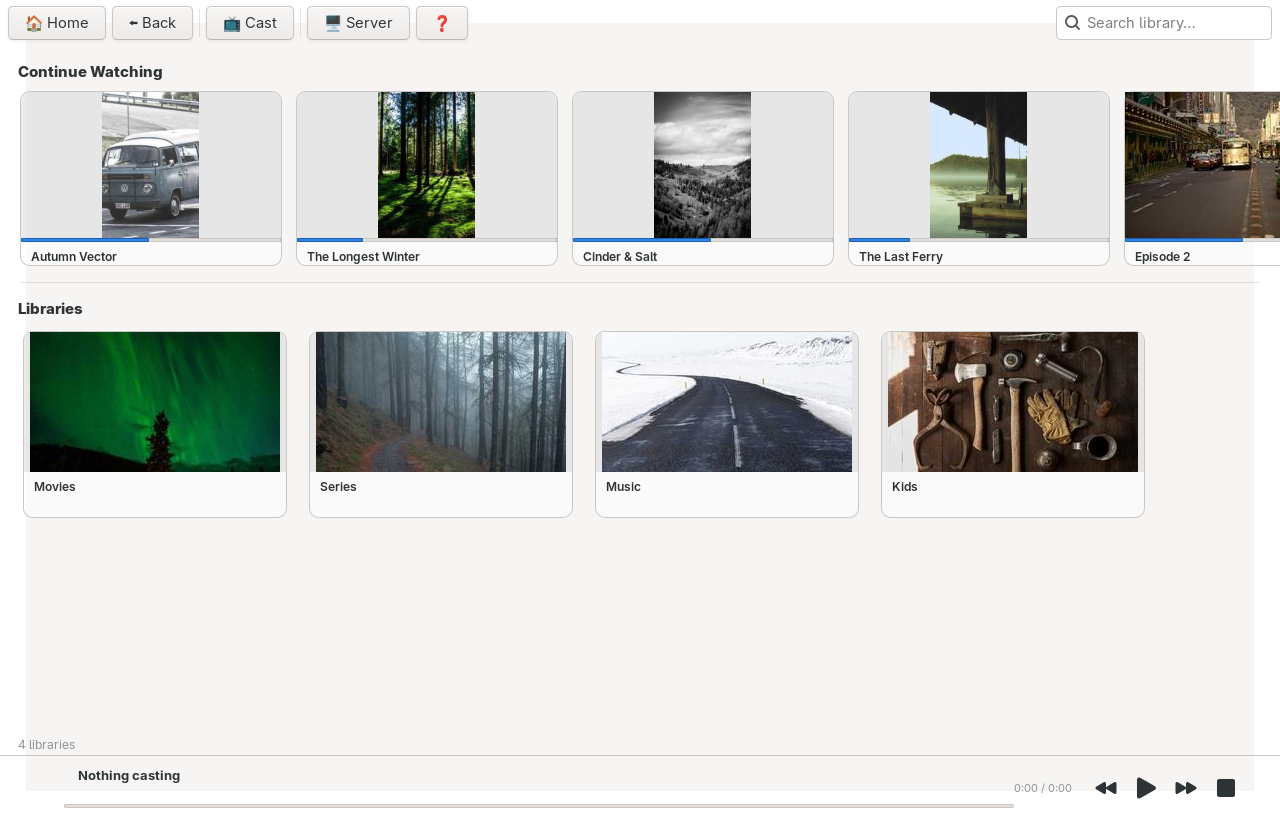
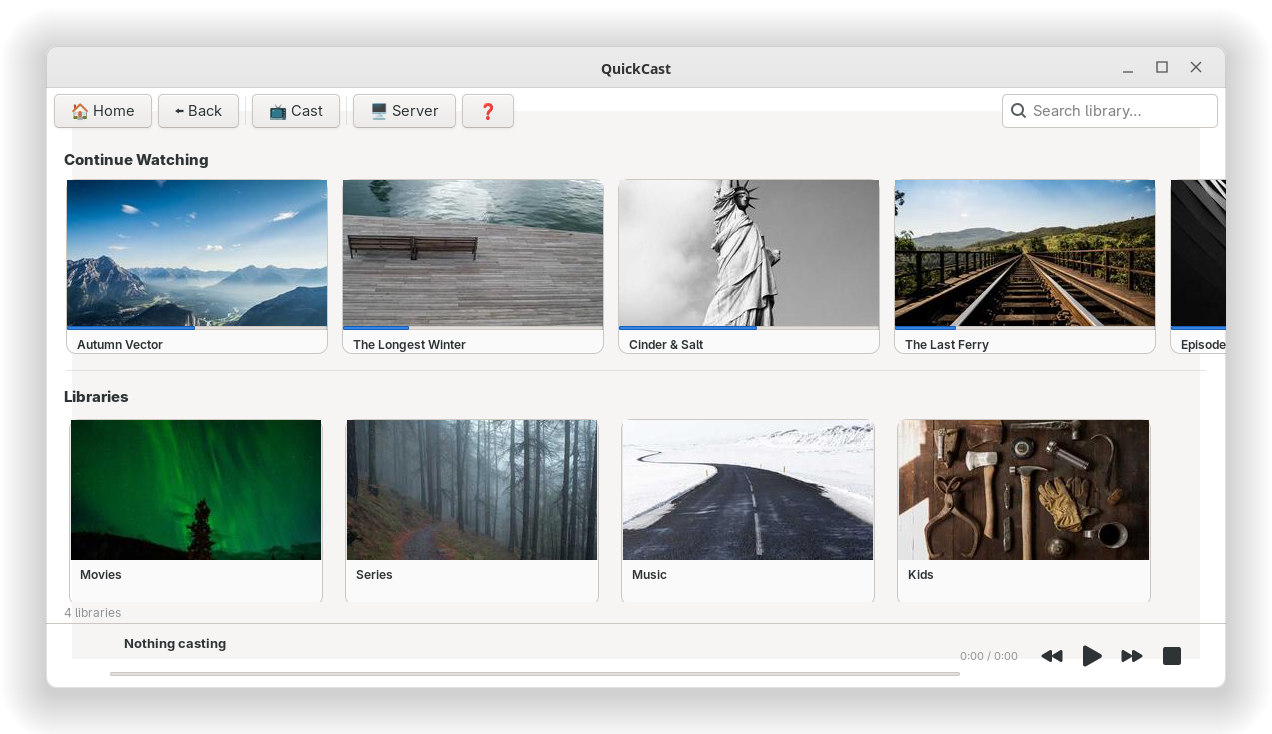
Continue Watching uses landscape stills; framed README hero
- Fix Continue Watching cards loading portrait posters into 16:9 frames
  (visible letterboxing): they now load the wide backdrop image, with a
  primary-poster fallback.
- tools/hero.py renders the README screenshot wrapped in a clean Adwaita
  window frame (titlebar, window controls, drop shadow), matching the
  quicksnip/quickcell shots; regenerate screenshot.png with it.
- README: demote mock/screenshots tooling into a single Development
  section (they are dev tools, not user features).

diff --git a/tools/hero.py b/tools/hero.py
@@ -1,0 +1,121 @@
+#!/usr/bin/env python3
+"""Render the README hero screenshot: the app (in --mock mode) wrapped in a
+clean Adwaita-style window frame (titlebar + window controls + drop shadow),
+matching the quicksnip/quickcell screenshots.
+
+Usage: python3 tools/hero.py [out.png] [WIDTH] [HEIGHT]
+"""
+import math
+import os
+import sys
+
+sys.path.insert(0, os.path.join(os.path.dirname(os.path.abspath(__file__)), ".."))
+
+import cairo  # noqa: E402
+import gi  # noqa: E402
+
+gi.require_version("Gtk", "3.0")
+gi.require_version("Gdk", "3.0")
+from gi.repository import Gdk, GLib, Gtk  # noqa: E402
+
+import quickcast  # noqa: E402
+
+OUT = sys.argv[1] if len(sys.argv) > 1 else "screenshot.png"
+W = int(sys.argv[2]) if len(sys.argv) > 2 else 1180
+H = int(sys.argv[3]) if len(sys.argv) > 3 else 620
+
+app = quickcast.QuickCast(mock=True)
+child = app.window.get_child()
+app.window.remove(child)
+off = Gtk.OffscreenWindow()
+off.add(child)
+off.set_size_request(W, H)
+off.show_all()
+
+MARGIN, TB, RADIUS = 46, 42, 11
+
+
+def _round_rect(cr, x, y, w, h, r):
+    cr.new_sub_path()
+    cr.arc(x + w - r, y + r, r, -math.pi / 2, 0)
+    cr.arc(x + w - r, y + h - r, r, 0, math.pi / 2)
+    cr.arc(x + r, y + h - r, r, math.pi / 2, math.pi)
+    cr.arc(x + r, y + r, r, math.pi, 3 * math.pi / 2)
+    cr.close_path()
+
+
+def render():
+    while Gtk.events_pending():
+        Gtk.main_iteration_do(False)
+    content = off.get_pixbuf()  # W x H
+
+    cw, ch = W + 2 * MARGIN, H + TB + 2 * MARGIN
+    surf = cairo.ImageSurface(cairo.FORMAT_ARGB32, cw, ch)
+    cr = cairo.Context(surf)
+
+    # soft drop shadow (stacked translucent expanding rounded rects)
+    for i in range(MARGIN, 0, -1):
+        _round_rect(cr, MARGIN - i, MARGIN - i + 7, W + 2 * i, TB + H + 2 * i, RADIUS + i)
+        cr.set_source_rgba(0, 0, 0, 0.006)
+        cr.fill()
+
+    # window body, clipped to rounded rect
+    _round_rect(cr, MARGIN, MARGIN, W, TB + H, RADIUS)
+    cr.clip_preserve()
+    cr.set_source_rgb(1, 1, 1)
+    cr.fill()
+
+    # titlebar
+    grad = cairo.LinearGradient(0, MARGIN, 0, MARGIN + TB)
+    grad.add_color_stop_rgb(0, 0.925, 0.925, 0.925)
+    grad.add_color_stop_rgb(1, 0.902, 0.902, 0.902)
+    cr.rectangle(MARGIN, MARGIN, W, TB)
+    cr.set_source(grad)
+    cr.fill()
+    cr.rectangle(MARGIN, MARGIN + TB - 1, W, 1)
+    cr.set_source_rgb(0.82, 0.82, 0.82)
+    cr.fill()
+
+    # title text (centered)
+    cr.select_font_face("Sans", cairo.FONT_SLANT_NORMAL, cairo.FONT_WEIGHT_BOLD)
+    cr.set_font_size(14)
+    ext = cr.text_extents("QuickCast")
+    cr.move_to(MARGIN + W / 2 - ext.width / 2, MARGIN + TB / 2 + ext.height / 2)
+    cr.set_source_rgb(0.2, 0.2, 0.2)
+    cr.show_text("QuickCast")
+
+    # window controls (minimize / maximize / close) on the right
+    cy = MARGIN + TB / 2
+    cr.set_line_width(1.4)
+    cr.set_source_rgb(0.35, 0.35, 0.35)
+    bx = MARGIN + W - 30
+    # close ✕
+    cr.move_to(bx - 5, cy - 5); cr.line_to(bx + 5, cy + 5)
+    cr.move_to(bx + 5, cy - 5); cr.line_to(bx - 5, cy + 5)
+    cr.stroke()
+    # maximize ▢
+    bx -= 34
+    cr.rectangle(bx - 5, cy - 5, 10, 10); cr.stroke()
+    # minimize _
+    bx -= 34
+    cr.move_to(bx - 5, cy + 5); cr.line_to(bx + 5, cy + 5); cr.stroke()
+
+    # app content under the titlebar
+    Gdk.cairo_set_source_pixbuf(cr, content, MARGIN, MARGIN + TB)
+    cr.paint()
+
+    cr.reset_clip()
+    # hairline border around the window
+    _round_rect(cr, MARGIN + 0.5, MARGIN + 0.5, W - 1, TB + H - 1, RADIUS)
+    cr.set_source_rgba(0, 0, 0, 0.12)
+    cr.set_line_width(1)
+    cr.stroke()
+
+    surf.write_to_png(OUT)
+    print(f"[hero] saved {OUT} ({cw}x{ch})", flush=True)
+    Gtk.main_quit()
+    return False
+
+
+GLib.timeout_add(6500, render)
+Gtk.main()

diff --git a/quickcast.py b/quickcast.py
@@ -956,16 +956,17 @@ class QuickCast:
         log(f"Rendered {len(items)} items")
 
     # ── Image helpers ───────────────────────────────────
-    def _set_image_async(self, image, item_id, w, h, fallback_icon):
+    def _set_image_async(self, image, item_id, w, h, fallback_icon, backdrop=False):
         """Show a faint placeholder icon immediately, then load the real
         artwork on a worker thread. Never blocks the main loop. Eager: use
-        for the small Continue Watching row."""
+        for the small Continue Watching row. backdrop=True loads the wide
+        (landscape) image, right for 16:9 cards."""
         gen = self._render_generation
         image.set_size_request(w, h)
         image.set_from_icon_name(fallback_icon, Gtk.IconSize.DIALOG)
 
         def work():
-            pb = self._load_pixbuf_aspect(item_id, w, h)
+            pb = self._load_pixbuf_aspect(item_id, w, h, backdrop=backdrop)
 
             def apply():
                 # drop if the user navigated away since this was queued
@@ -1020,8 +1021,13 @@ class QuickCast:
             if (y + rec["h"]) >= (top - margin) and y <= (bottom + margin):
                 self._load_lazy_rec(rec)
 
-    def _load_pixbuf_aspect(self, item_id, target_w, target_h):
-        img_data = self.fetch_image(item_id, size=max(target_w, target_h))
+    def _load_pixbuf_aspect(self, item_id, target_w, target_h, backdrop=False):
+        if backdrop:
+            img_data = self.fetch_backdrop(item_id, size=max(target_w, target_h))
+            if not img_data:  # fall back to primary if no backdrop
+                img_data = self.fetch_image(item_id, size=max(target_w, target_h))
+        else:
+            img_data = self.fetch_image(item_id, size=max(target_w, target_h))
         if not img_data:
             return None
         try:
@@ -1058,7 +1064,8 @@ class QuickCast:
         img_wrap.set_size_request(img_w, img_h)
 
         image = Gtk.Image()
-        self._set_image_async(image, item_id, img_w, img_h, "video-display-symbolic")
+        # Continue Watching is a 16:9 card, so use the wide (backdrop) image
+        self._set_image_async(image, item_id, img_w, img_h, "video-display-symbolic", backdrop=True)
 
         img_wrap.pack_start(image, True, True, 0)
 

diff --git a/README.md b/README.md
@@ -51,37 +51,21 @@ approve the code in Jellyfin (Settings → Quick Connect). Config is stored in
 | Esc | Back (or clear search) |
 | Space | Play / pause (while casting) |
 
-## Mock mode
+## Development
 
-Run with invented libraries and procedurally-drawn placeholder artwork (no
-server, no network, no copyrighted content) — handy for screenshots, demos and
-regression tests:
-
-```bash
-python3 quickcast.py --mock       # or QUICKCAST_MOCK=1 python3 quickcast.py
-```
-
-Artwork is real rights-free photography from [Lorem Picsum](https://picsum.photos)
-(Unsplash-sourced, free to use), seeded per item and cached under
-`~/.cache/quickcast/mock-art/`, so it looks like a genuine library, stays stable
-across runs, and works offline after the first fetch. Set
-`QUICKCAST_MOCK_OFFLINE=1` to skip the network entirely and use procedurally
-drawn placeholders instead. All other mock data is deterministic (derived from
-item ids). Implemented in `mockdata.py`.
-
-## Screenshots (development)
-
-`tools/shots.py` drives the app through its key states and writes one PNG each
-(it uses mock mode, so the set is deterministic and copyright-free).
-Run it under a virtual framebuffer for deterministic, occlusion-independent
-captures (Wayland throttles frames for hidden windows):
+A `--mock` mode serves an invented library with rights-free artwork (no server,
+no real content) so the UI can be developed, demoed and regression-tested in
+isolation:
 
 ```bash
-xvfb-run -a --server-args="-screen 0 1220x840x24" \
-  python3 tools/shots.py build/screenshots
+python3 quickcast.py --mock
 ```
 
-`tools/shot.py` grabs a single home-view screenshot the same way.
+Mock data is deterministic (derived from item ids); artwork is seeded photos
+from [Lorem Picsum](https://picsum.photos), cached under
+`~/.cache/quickcast/mock-art/` (set `QUICKCAST_MOCK_OFFLINE=1` for procedural
+placeholders). `tools/shots.py <dir>` renders the key screens to PNGs on top of
+mock mode for stable, copyright-free regression screenshots. See `mockdata.py`.
 
 ## License
 